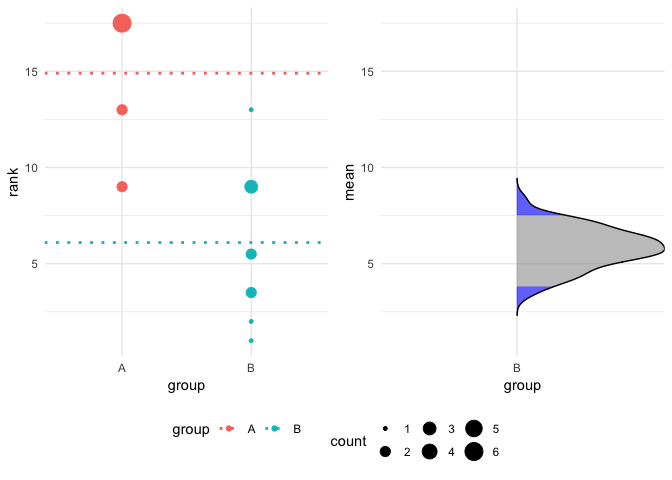
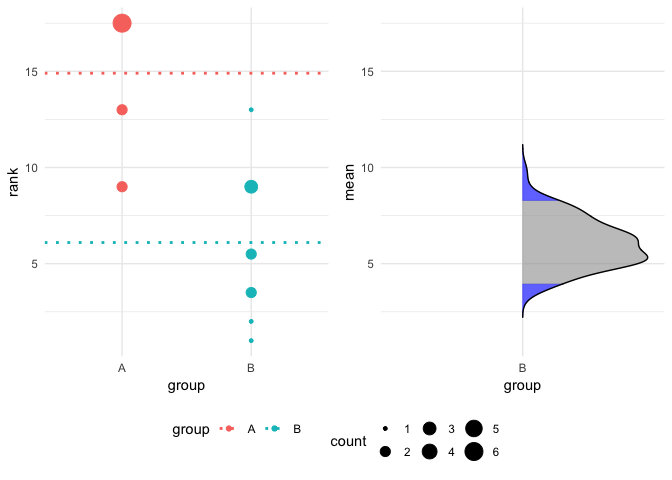
update travis

Changed region(s): [[0.75, 0.3125, 1.0, 0.6562], [0.75, 0.75, 0.7812, 0.7812]]

diff --git a/Readme.md b/Readme.md
@@ -52,7 +52,7 @@ hr_est_1
     ## Unpaired mean rank difference of A (14.9, n=10) minus B (6.1, n=10)
     ##  8.8
     ## Confidence Intervals (0.025, 0.975)
-    ##  3.795, 7.52625
+    ##  3.9475, 8.27625
     ## 
     ## 100 bootstrap resamples.
 
@@ -60,7 +60,7 @@ hr_est_1
 plot(hr_est_1)
 ```
 
-    ## Picking joint bandwidth of 0.361
+    ## Picking joint bandwidth of 0.445
 
 ![](Readme_files/figure-gfm/unnamed-chunk-1-1.png)<!-- -->
 
@@ -125,7 +125,7 @@ hr_est_1
     ## Unpaired mean rank difference of A (14.9, n=10) minus B (6.1, n=10)
     ##  8.8
     ## Confidence Intervals (0.025, 0.975)
-    ##  3.77375, 8.255
+    ##  3.92375, 8.35
     ## 
     ## 100 bootstrap resamples.
 
@@ -133,7 +133,7 @@ hr_est_1
 plot(hr_est_1)
 ```
 
-    ## Picking joint bandwidth of 0.414
+    ## Picking joint bandwidth of 0.391
 
 ![](Readme_files/figure-gfm/unnamed-chunk-3-1.png)<!-- -->
 
@@ -147,7 +147,7 @@ estimate(hr_data_1, score, group, control = "B" ) %>%
   plot()
 ```
 
-    ## Picking joint bandwidth of 0.412
+    ## Picking joint bandwidth of 0.351
 
 ![](Readme_files/figure-gfm/unnamed-chunk-4-1.png)<!-- -->
 
@@ -160,7 +160,7 @@ estimate(hr_data_1, score, group, control = "A", nits = 1000, low = 0.4, high = 
   plot()
 ```
 
-    ## Picking joint bandwidth of 0.26
+    ## Picking joint bandwidth of 0.262
 
 ![](Readme_files/figure-gfm/unnamed-chunk-5-1.png)<!-- -->
 
@@ -212,7 +212,7 @@ hr_est_3
     ## Unpaired mean rank difference of A (5, n=3) minus B (2, n=3)
     ##  3
     ## Confidence Intervals (0.025, 0.975)
-    ##  1.33333333333333, 2.66666666666667
+    ##  1.33333333333333, 3
     ## 
     ## Unpaired mean rank difference of A (5, n=3) minus C (8, n=3)
     ##  -3
@@ -225,7 +225,7 @@ hr_est_3
 plot(hr_est_3)
 ```
 
-    ## Picking joint bandwidth of 0.156
+    ## Picking joint bandwidth of 0.17
 
 ![](Readme_files/figure-gfm/unnamed-chunk-6-1.png)<!-- -->
 
@@ -241,6 +241,6 @@ hr_est_3 %>%
   plot(which = "just_data")
 ```
 
-    ## Picking joint bandwidth of 0.156
+    ## Picking joint bandwidth of 0.17
 
 ![](Readme_files/figure-gfm/unnamed-chunk-7-1.png)<!-- -->
